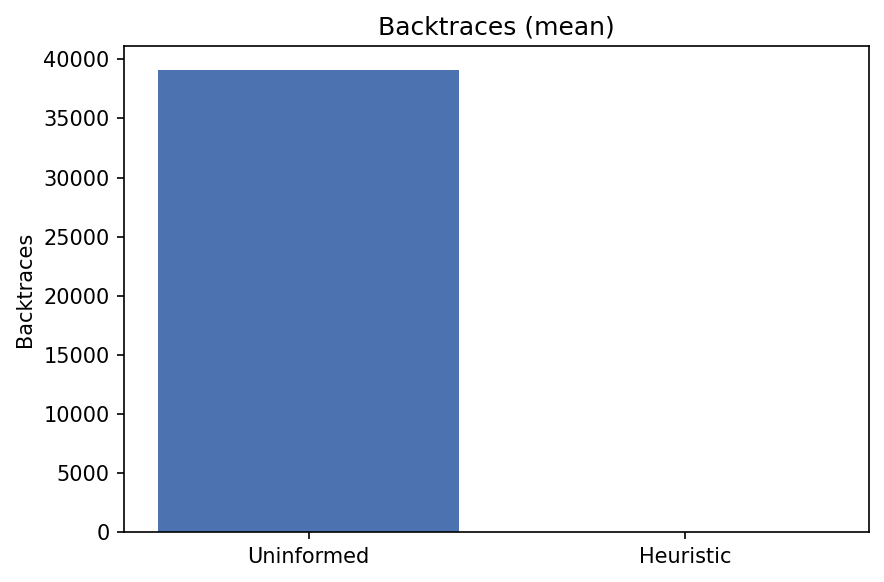
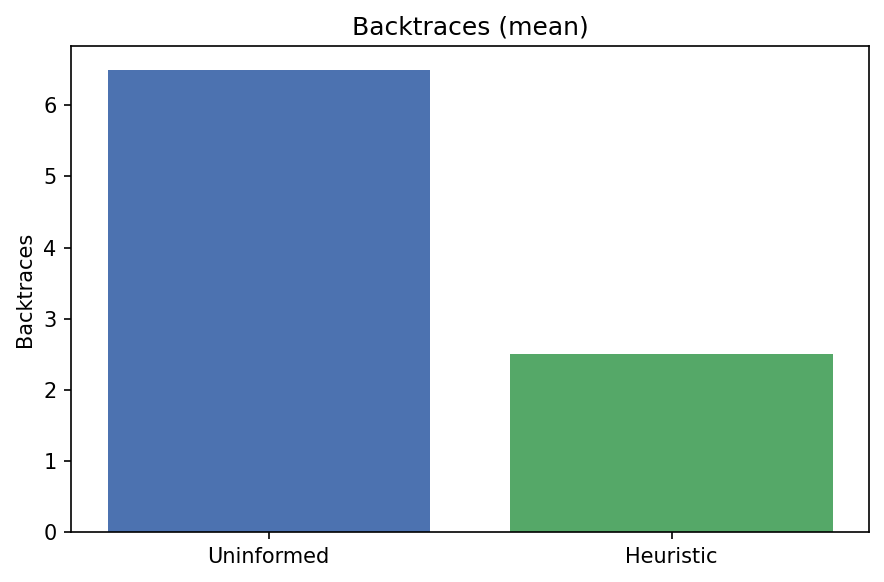
docs: submission notes, interpret demo console sample, README viz-demo; refresh figures
Made-with: Cursor

diff --git a/docs/SUBMISSION_NOTES.md b/docs/SUBMISSION_NOTES.md
@@ -1,0 +1,44 @@
+# Data interpretation and visualization (course submission notes)
+
+## What `interpretExpData` returns
+
+A single `dict` (see `SudokuWorld.interpretExpData` in `src/world.py`):
+
+| Key | Meaning |
+|-----|---------|
+| `uninformed` | Per-metric stats for rows where `isHeuristic` is false: each of `solveTimeSecs`, `numOfOperations`, `numOfBacktraces`, `peakMemUsage` maps to `min`, `max`, `mean` (or all `None` if no rows). |
+| `heuristic` | Same structure for heuristic rows. |
+| `comparison_pct` | Per metric: percent vs **uninformed mean** as baseline: `100 * (u_mean - h_mean) / u_mean`. Positive means heuristic mean is lower on that metric. `None` if not computable. |
+| `n_uninformed`, `n_heuristic` | Row counts in each bucket. |
+
+## What gets printed
+
+`format_interpretation_text` (in `src/data_visualization.py`) turns that dict into a human-readable block: run counts, min/max/mean per side, then four comparison lines (or `N/A`).
+
+## What gets written to disk
+
+`save_interpretation_figures` writes PNGs under `figures/` (repo root by default):
+
+- `interpret_solveTimeSecs.png`, `interpret_numOfOperations.png`, `interpret_numOfBacktraces.png`, `interpret_peakMemUsage.png` — bar charts of **mean** uninformed vs heuristic.
+- `interpret_comparison_pct.png` — horizontal bar chart of the `%` values.
+
+## How to reproduce (no full dataset required)
+
+From repo root, with dependencies installed:
+
+```powershell
+$env:PYTHONPATH="src"
+python -m data_visualization --demo
+```
+
+Or with GNU Make: `make viz-demo`
+
+A sample console capture is in `docs/interpret_demo_console.txt`.
+
+## Caveat for reports
+
+Meaningful **heuristic vs uninformed** comparisons require real work in `heuristicsSolve` in `src/solver.py`. Until that is implemented, prefer the `--demo` output for slides, or label full `python -m main` runs as provisional.
+
+## Git wrap-up (agent run)
+
+- Branch `samuel-data-analysis` was pushed to `origin` after sync with `origin/main` (no extra merge was needed: branch already contained `origin/main`).

diff --git a/README.md b/README.md
@@ -26,6 +26,16 @@ make install
 make run
 ```
 
+### Interpretation demo (figures only, no CSV run)
+
+From the repo root, with `PYTHONPATH=src` set (see Makefile for how this project runs modules):
+
+```shell
+make viz-demo
+```
+
+On systems without `make`, use: `PYTHONPATH=src python -m data_visualization --demo`. This regenerates the summary printout and PNGs under `figures/`. See `docs/SUBMISSION_NOTES.md` for details.
+
 ## How do you contribute?
 
 To the few members on this project.. you need to install **git lfs** locally **on your computer** (THIS IS NOT THE SAME AS THE `git lfs install` COMMAND!). This project uses git lfs to store the large test.csv file on this repository.
